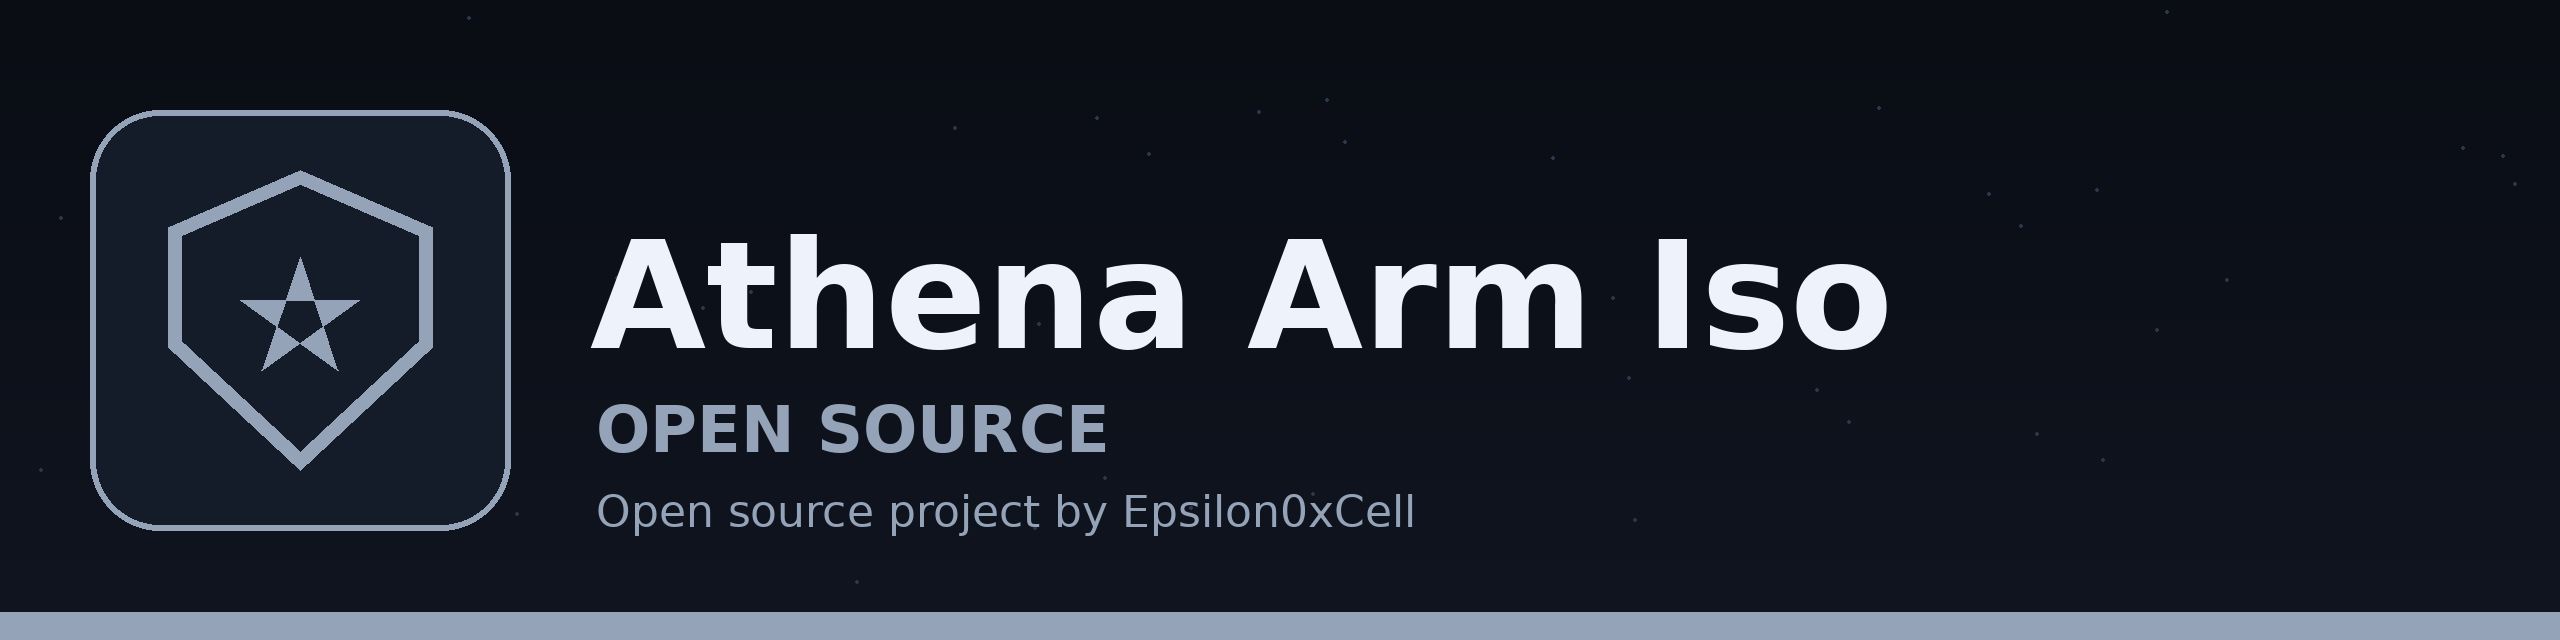
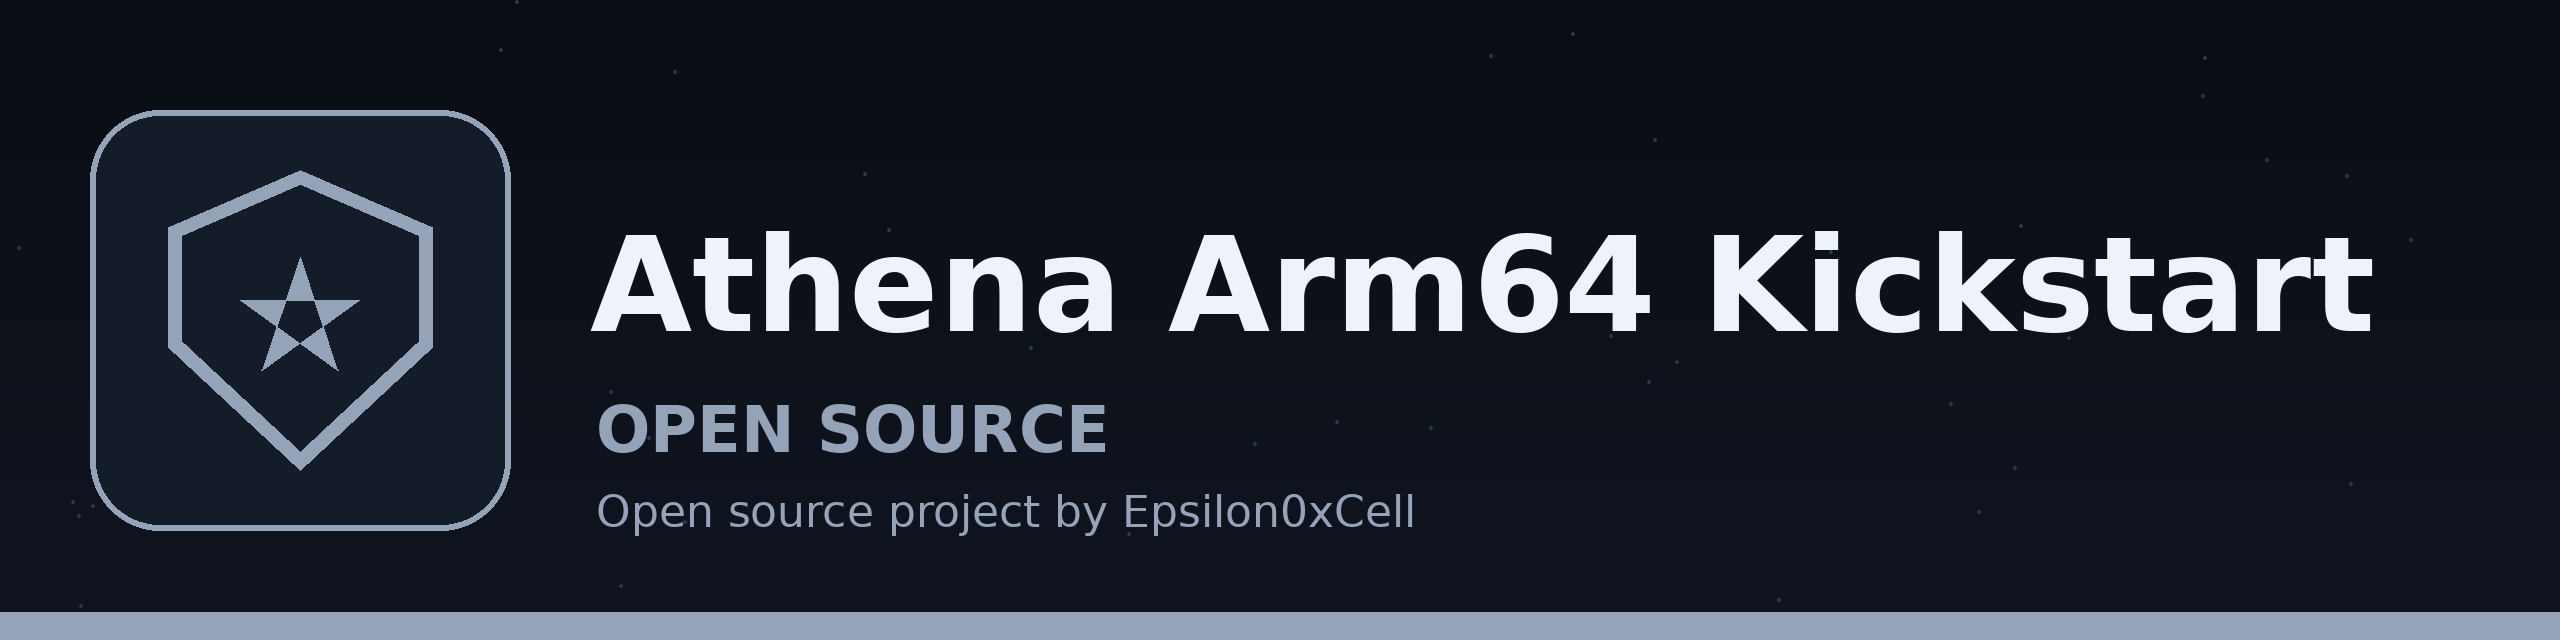
Update name to Athena-ARM64-Kickstart: README title and branding

Changed region(s): [[0.2188, 0.3438, 0.9375, 0.5625]]

diff --git a/README.md b/README.md
@@ -1,6 +1,6 @@
 ![Banner](banner.png)
 
-# athena-arm-iso
+# Athena-ARM64-Kickstart
 
 Athena OS Live ISO configuration for ARM64 (aarch64) architecture.
 
